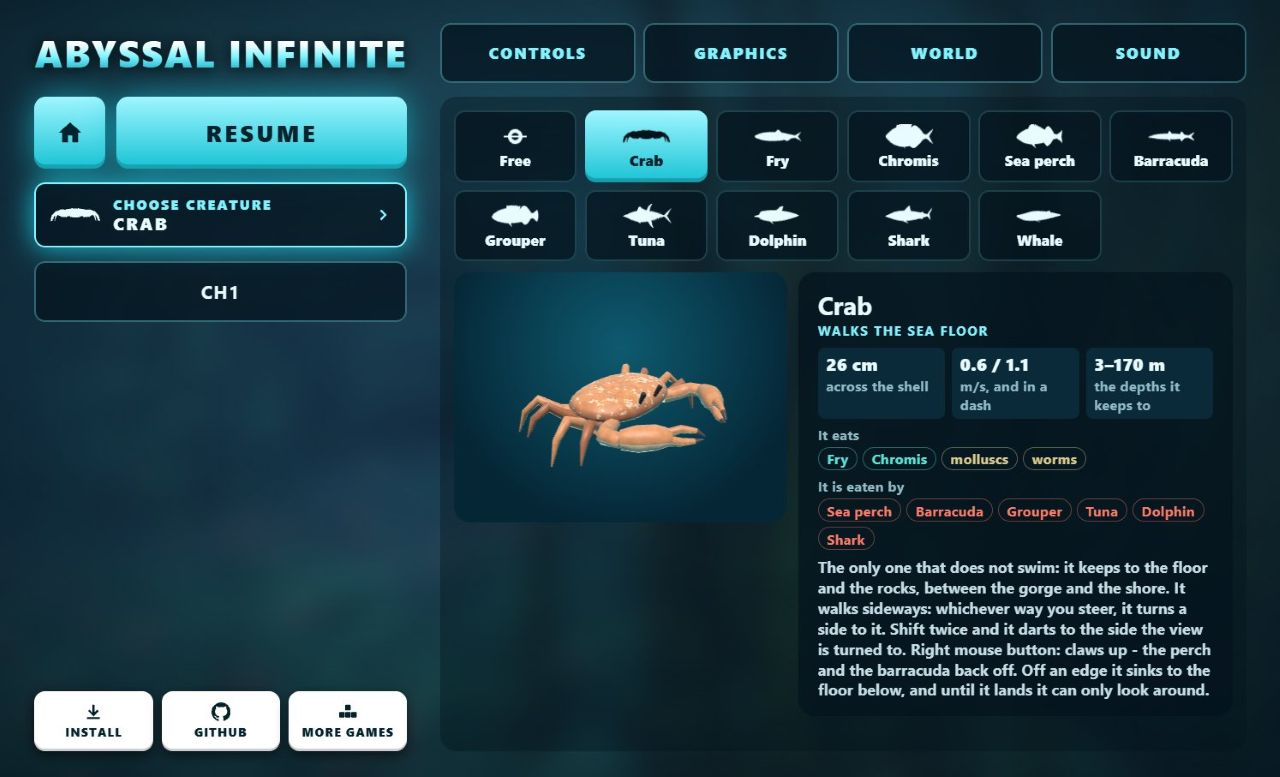
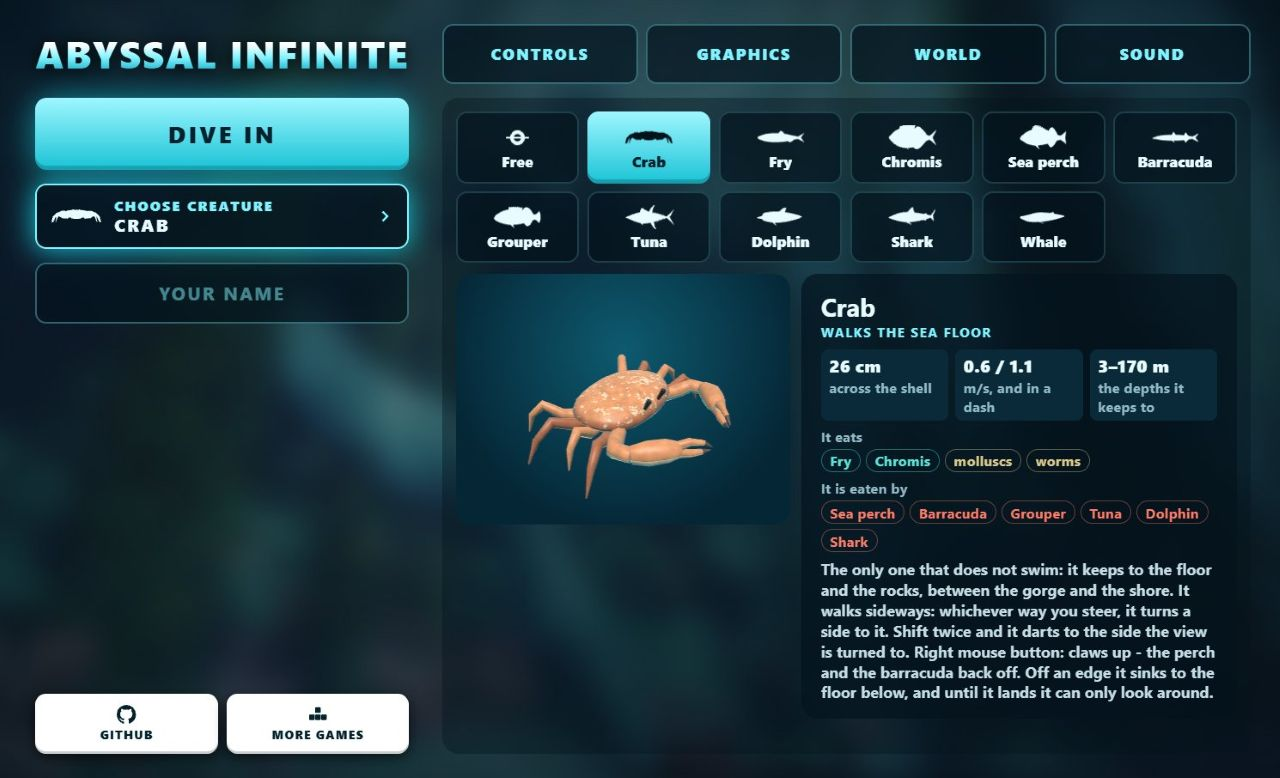
README: a new screenshot of the menu, full width

diff --git a/README.md b/README.md
@@ -38,7 +38,7 @@ computer. You need a browser with **WebGPU**. It also runs on an iPhone with iOS
 ## How to play
 
 <p align="center">
-  <img src="screenshots/menu.jpg" width="80%" alt="The menu: the creature panel with the crab chosen, its size, speed, depths, what it eats and what eats it">
+  <img src="screenshots/menu.jpg" width="100%" alt="The menu: the creature panel with the crab chosen, its size, speed, depths, what it eats and what eats it">
 </p>
 
 **Pick a creature** with the creature button in the menu: crab, fry, chromis, perch, barracuda, grouper, tuna,
